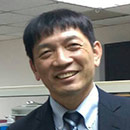
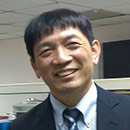
更新
更新

diff --git a/congressthon/index.html b/congressthon/index.html
@@ -9,7 +9,6 @@
 	<meta name="keywords" content="">
 	<meta name="viewport" content="width=device-width, initial-scale=1, minimum-scale=1, maximum-scale=1">
 	<link rel="shortcut icon" href="favicon.ico" />
-	
 	<script src="https://cdnjs.cloudflare.com/ajax/libs/modernizr/2.8.3/modernizr.js"></script>
 	<!-- CSS -->
 	<!-- Optmization  -->
@@ -358,7 +357,7 @@
 						</div>
 						<div class="col-sm-4">
 							<div class="avatar">
-								<img src="static/images/forum_speakers/default.jpg" alt="">
+								<img src="static/images/forum_speakers/topic_1_03.jpg" alt="">
 							</div>
 							<h4 class="title">
 								食夢黑貘
@@ -733,6 +732,7 @@
 	</div>
 </section>
 <div class="google-maps" id="map">
+<iframe src="https://www.google.com/maps/embed?pb=!1m18!1m12!1m3!1d3614.729367005523!2d121.51770601539197!3d25.04325684407336!2m3!1f0!2f0!3f0!3m2!1i1024!2i768!4f13.1!3m3!1m2!1s0x3442a973e1d861bb%3A0x199b56f0b680dbdb!2zMTAw5Y-w5YyX5biC5Lit5q2j5Y2A5r-f5Y2X6Lev5LiA5q61MeiZnw!5e0!3m2!1szh-TW!2stw!4v1470199147830" frameborder="0" style="border:0" allowfullscreen="" class="map-iframe"></iframe>
 </div>
 <!-- 主辦單位 -->
 <section class="sec-organizer" id="section-about">
@@ -826,53 +826,6 @@
 		</div>
 	</div>
 </section>
-<script type="text/javascript" src="https://maps.googleapis.com/maps/api/js?sensor=false"></script>
-<script type="text/javascript">
-// When the window has finished loading create our google map below
-google.maps.event.addDomListener(window, 'load', init);
-
-function init() {
-	// Basic options for a simple Google Map
-	// For more options see: https://developers.google.com/maps/documentation/javascript/reference#MapOptions
-	var mapOptions = {
-		// How zoomed in you want the map to start at (always required)
-		zoom: 17,
-
-		// The latitude and longitude to center the map (always required)
-		center: new google.maps.LatLng(25.0431548, 121.5199148, 17.56), // New York
-		// How you would like to style the map. 
-		// This is where you would paste any style found on Snazzy Maps.
-	};
-
-	// Get the HTML DOM element that will contain your map 
-	// We are using a div with id="map" seen below in the <body>
-	var mapElement = document.getElementById('map');
-
-	// Create the Google Map using our element and options defined above
-	var map = new google.maps.Map(mapElement, mapOptions);
-
-
-
-	var marker = new google.maps.Marker({
-		animation: google.maps.Animation.DROP,
-		position: {
-			lat: 25.0431548,
-			lng: 121.5199148
-		},
-		map: map
-	});
-	marker.addListener('click', toggleBounce);
-
-}
-
-function toggleBounce() {
-	if (marker.getAnimation() !== null) {
-		marker.setAnimation(null);
-	} else {
-		marker.setAnimation(google.maps.Animation.BOUNCE);
-	}
-}
-</script>
 		</main>
 		<footer class="footer">
 			<div class="clearfix">
@@ -888,202 +841,6 @@ function toggleBounce() {
 				</div>
 			</div>
 		</footer>
-	</div>
-	<div class="sb-slidebar sb-left">
-		<div class="mobilenav">
-			<div class="mobilenav-container">
-				<ul class="mobilenav-root">
-					<div class="mobile-logo">
-						<a href="index.html">
-							<svg class="icon icon-logo">
-								<use xlink:href="#icon-logo"></use>
-							</svg>
-						</a>
-					</div>
-					<li>
-						<a href="index.html">HOME</a>
-					</li>
-					<li>
-						<a href="about.html">ABOUT</a>
-					</li>
-					<li>
-						<a href="#">PRODUCTS
-							<svg class="icon icon-play_arrow">
-								<use xlink:href="#icon-play_arrow"></use>
-							</svg>
-						</a>
-						<ul class="mobilenav-sub">
-							<h2>Products</h2>
-							<li>
-								<a href="products_list.html">Household & Kitchenware
-									<svg class="icon icon-play_arrow">
-										<use xlink:href="#icon-play_arrow"></use>
-									</svg>
-								</a>
-								<ul class="mobilenav-sub">
-									<h2>Household & Kitchenware</h2>
-									<li>
-										<a href="products_list.html">View All </a>
-									</li>
-									<li>
-										<a href="products_list.html">Blenders</a>
-									</li>
-									<li>
-										<a href="products_list.html">Can Openers</a>
-									</li>
-									<li>
-										<a href="products_list.html">Choppers</a>
-									</li>
-									<li>
-										<a href="products_list.html">Cleaners & Dryers</a>
-									</li>
-									<li>
-										<a href="products_list.html">Coffee Grinders & Makers</a>
-									</li>
-									<li class="mobilenav-back">
-										<a href="#">
-											<svg class="icon icon-arrow-left">
-												<use xlink:href="#icon-arrow-left"></use>
-											</svg>
-										</a>
-									</li>
-								</ul>
-							</li>
-							<li>
-								<a href="products_list.html">Healthcare
-									<svg class="icon icon-play_arrow">
-										<use xlink:href="#icon-play_arrow"></use>
-									</svg>
-								</a>
-								<ul class="mobilenav-sub">
-									<h2>Household & Kitchenware</h2>
-									<li>
-										<a href="products_list.html">View All </a>
-									</li>
-									<li>
-										<a href="products_list.html">Blenders</a>
-									</li>
-									<li>
-										<a href="products_list.html">Can Openers</a>
-									</li>
-									<li>
-										<a href="products_list.html">Choppers</a>
-									</li>
-									<li>
-										<a href="products_list.html">Cleaners & Dryers</a>
-									</li>
-									<li>
-										<a href="products_list.html">Coffee Grinders & Makers</a>
-									</li>
-									<li class="mobilenav-back">
-										<a href="#">
-											<svg class="icon icon-arrow-left">
-												<use xlink:href="#icon-arrow-left"></use>
-											</svg>
-										</a>
-									</li>
-								</ul>
-							</li>
-							<li>
-								<a href="products_list.html">Ootdoor & Sporting
-									<svg class="icon icon-play_arrow">
-										<use xlink:href="#icon-play_arrow"></use>
-									</svg>
-								</a>
-								<ul class="mobilenav-sub">
-									<h2>Household & Kitchenware</h2>
-									<li>
-										<a href="products_list.html">View All </a>
-									</li>
-									<li>
-										<a href="products_list.html">Blenders</a>
-									</li>
-									<li>
-										<a href="products_list.html">Can Openers</a>
-									</li>
-									<li>
-										<a href="products_list.html">Choppers</a>
-									</li>
-									<li>
-										<a href="products_list.html">Cleaners & Dryers</a>
-									</li>
-									<li>
-										<a href="products_list.html">Coffee Grinders & Makers</a>
-									</li>
-									<li class="mobilenav-back">
-										<a href="#">
-											<svg class="icon icon-arrow-left">
-												<use xlink:href="#icon-arrow-left"></use>
-											</svg>
-										</a>
-									</li>
-								</ul>
-							</li>
-							<li>
-								<a href="products_list.html">Personal Safety & Anti-Crime
-									<svg class="icon icon-play_arrow">
-										<use xlink:href="#icon-play_arrow"></use>
-									</svg>
-								</a>
-								<ul class="mobilenav-sub">
-									<h2>Household & Kitchenware</h2>
-									<li>
-										<a href="products_list.html">View All </a>
-									</li>
-									<li>
-										<a href="products_list.html">Blenders</a>
-									</li>
-									<li>
-										<a href="products_list.html">Can Openers</a>
-									</li>
-									<li>
-										<a href="products_list.html">Choppers</a>
-									</li>
-									<li>
-										<a href="products_list.html">Cleaners & Dryers</a>
-									</li>
-									<li>
-										<a href="products_list.html">Coffee Grinders & Makers</a>
-									</li>
-									<li class="mobilenav-back">
-										<a href="#">
-											<svg class="icon icon-arrow-left">
-												<use xlink:href="#icon-arrow-left"></use>
-											</svg>
-										</a>
-									</li>
-								</ul>
-							</li>
-							<li class="mobilenav-back">
-								<a href="#">
-									<svg class="icon icon-arrow-left">
-										<use xlink:href="#icon-arrow-left"></use>
-									</svg>
-								</a>
-							</li>
-						</ul>
-					</li>
-					<li>
-						<a href="contact.html">CONTACT</a>
-					</li>
-					<li class="language">
-						<a>Select Language</a>
-						<ul id="language-list">
-							<li>
-								<a href="#">English</a>
-							</li>
-							<li>
-								<a href="#">Portuguese</a>
-							</li>
-						</ul>
-					</li>
-					<li class="member-link">
-						<a href="member_register.html">Register</a>
-						<a href="member_login.html">Login</a>
-					</li>
-				</ul>
-			</div>
-		</div>
 	</div>
 	<!-- Optmization  -->
 	<script src="static/vendor/smoothscroll/smoothscroll.js "></script>
